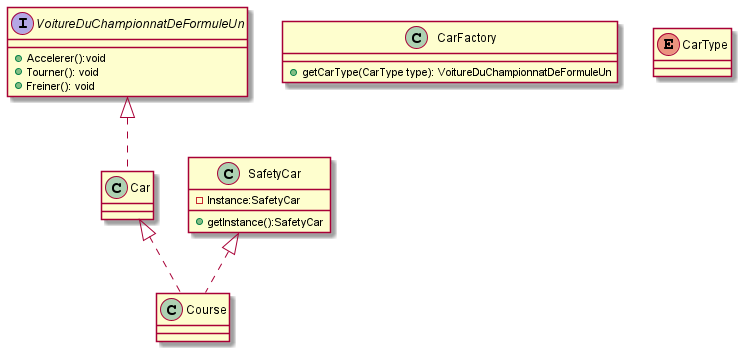
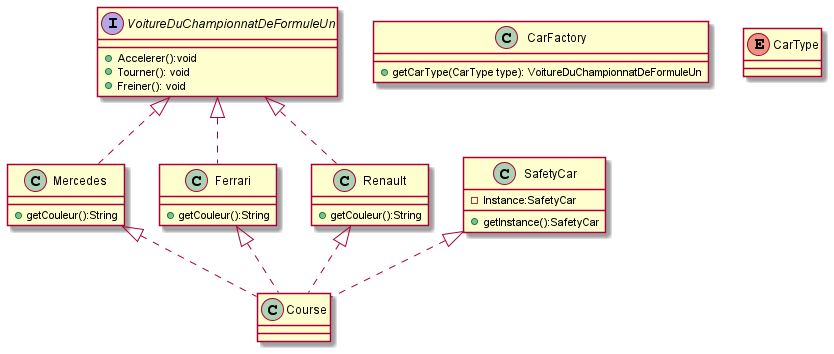
Finalisation travail : Suppression des classes inutiles, création des tests, création des méthodes, modification de L'UML

diff --git a/src/test/java/com/tetras/FormulaOneTest.java b/src/test/java/com/tetras/FormulaOneTest.java
@@ -7,9 +7,46 @@ import org.junit.jupiter.api.Test;
 import static org.junit.jupiter.api.Assertions.*;
 
 class FormulaOneTest {
+    //Test Renault
     @Test
-    void testSomeLibraryMethod() {
-        Library classUnderTest = new Library();
-        assertTrue(classUnderTest.someLibraryMethod(), "someLibraryMethod should return 'true'");
+    void RenaultTest() {
+        VoitureDuChampionnatDeFormuleUn Ren1 = CarFactory.getVoitureDeCourse(CarType.Renault);
+        Renault RenColor = new Renault();
+        String color = RenColor.getCouleur();
+
+        assertEquals(color,"Bleu");
+        assertTrue(Ren1 instanceof Renault);
     }
+
+    //Test Mercedes
+    @Test
+    void MercedesTest() {
+        VoitureDuChampionnatDeFormuleUn Merc1 = CarFactory.getVoitureDeCourse(CarType.Mercedes);
+        Mercedes MercedesColor = new Mercedes();
+        String color = MercedesColor.getCouleur();
+
+        assertEquals(color,"Noir");
+        assertTrue(Merc1 instanceof Mercedes);
+    }
+
+    //Test Ferrari
+    @Test
+    void FerrariTest() {
+        VoitureDuChampionnatDeFormuleUn Ferr1 = CarFactory.getVoitureDeCourse(CarType.Ferrari);
+        Ferrari FerrariColor = new Ferrari();
+        String color = FerrariColor.getCouleur();
+
+        assertEquals(color,"Rouge");
+        assertTrue(Ferr1 instanceof Ferrari);
+    }
+
+    //Test SafetyCar
+    @Test
+    void SafetyCarTest(){
+        SafetyCar sf1 = SafetyCar.getInstance();
+        SafetyCar sf2 = SafetyCar.getInstance();
+        assertEquals(sf1,sf2);
+    }
+
+
 }

diff --git a/src/main/java/com/tetras/CarFactory.java b/src/main/java/com/tetras/CarFactory.java
@@ -1,5 +1,17 @@
 package com.tetras;
 
 public class CarFactory {
-    
+
+    //Car Factory va servir à instancier les Voiture, et à créer soit une Ferrari, soit une Mercedes, soit une Renault
+
+    public static VoitureDuChampionnatDeFormuleUn getVoitureDeCourse(CarType type) {
+        if (CarType.Ferrari.equals(type))
+            return new Ferrari();
+        else if (CarType.Mercedes.equals(type))
+            return new Mercedes();
+        else if(CarType.Renault.equals(type))
+            return new Renault();
+        else
+            throw new IllegalArgumentException();
+    }
 }

diff --git a/src/main/java/com/tetras/Mercedes.java b/src/main/java/com/tetras/Mercedes.java
@@ -1,5 +1,23 @@
 package com.tetras;
 
-public class Mercedes {
+public class Mercedes implements VoitureDuChampionnatDeFormuleUn {
     
+    //On interface VoitureDuChampionnatDeFormuleUn afin de récupérer les 
+    //méthode, et on ajoute une classe GetCouleur qui return la couleur du constructeur
+    
+    public void Accelerer(){
+        
+    }
+
+    public void Tourner(){
+
+    }
+
+    public void Freiner(){
+
+    }
+
+    public String getCouleur(){
+        return "Noir";
+    }
 }

diff --git a/src/main/java/com/tetras/Ferrari.java b/src/main/java/com/tetras/Ferrari.java
@@ -1,5 +1,23 @@
 package com.tetras;
 
-public class Ferrari {
+public class Ferrari implements VoitureDuChampionnatDeFormuleUn {
+
+    //On interface VoitureDuChampionnatDeFormuleUn afin de récupérer les 
+    //méthode, et on ajoute une classe GetCouleur qui return la couleur du constructeur
     
+    public void Accelerer(){
+        
+    }
+
+    public void Tourner(){
+
+    }
+
+    public void Freiner(){
+
+    }
+
+    public String getCouleur(){
+        return "Rouge";
+    }
 }

diff --git a/src/main/java/com/tetras/Renault.java b/src/main/java/com/tetras/Renault.java
@@ -1,5 +1,23 @@
 package com.tetras;
 
-public class Renault {
+public class Renault implements VoitureDuChampionnatDeFormuleUn{
     
+    //On interface VoitureDuChampionnatDeFormuleUn afin de récupérer les 
+    //méthode, et on ajoute une classe GetCouleur qui return la couleur du constructeur
+
+    public void Accelerer(){
+        
+    }
+
+    public void Tourner(){
+
+    }
+
+    public void Freiner(){
+
+    }
+
+    public String getCouleur(){
+        return "Bleu";
+    }
 }

diff --git a/src/main/java/com/tetras/SafetyCar.java b/src/main/java/com/tetras/SafetyCar.java
@@ -1,5 +1,17 @@
 package com.tetras;
 
+
 public class SafetyCar {
+
+    //SafetyCar est un singleton : il n'existe qu'une SafetyCar en course
+
+    private static SafetyCar instance = new SafetyCar();
     
+    private SafetyCar(){
+
+    }
+
+    public static SafetyCar getInstance(){
+        return instance;
+    }
 }

diff --git a/src/main/java/com/tetras/VoitureDuChampionnatDeFormuleUn.java b/src/main/java/com/tetras/VoitureDuChampionnatDeFormuleUn.java
@@ -1,9 +1,13 @@
 package com.tetras;
 
 public interface VoitureDuChampionnatDeFormuleUn {
-    
-    void Vroum();
 
-    void Tut();
+    //Interface principale pour les méthode des voiture que l'on va instancier
+    
+    void Accelerer();
+
+    void Tourner();
+
+    void Freiner();
 
 }

diff --git a/src/main/java/com/tetras/Course.java b/src/main/java/com/tetras/Course.java
@@ -1,0 +1,7 @@
+package com.tetras;
+
+public class Course {
+
+    //La classe Course ou on instanciera les Mercedes, Ferrari, et Renaults (et la safetycar)
+    
+}

diff --git a/src/main/java/com/tetras/CarType.java b/src/main/java/com/tetras/CarType.java
@@ -1,5 +1,6 @@
 package com.tetras;
 
+//Enumération qui détermine les constructeur 
 public enum CarType {
-    
+    Mercedes, Renault, Ferrari
 }
